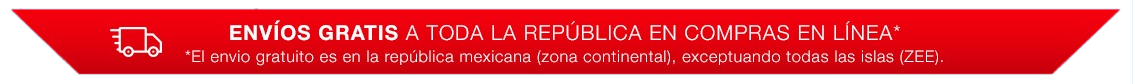
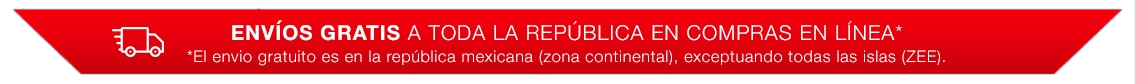
Increased width

diff --git a/app/styles/main.css b/app/styles/main.css
@@ -1715,7 +1715,7 @@ select {
   background: #e2023f;
   transition: width 0.3s;
 }
-.smart-menu-left a::after {  
+.smart-menu-left a::after {
   content: '';
   display: block;
   width: 0;
@@ -1726,14 +1726,14 @@ select {
 .smart-menu a:hover::after {
   width: 15%;
 }
-.smart-menu-left a:hover::after { 
+.smart-menu-left a:hover::after {
   width: 15%;
 }
 .smart-menu img {
   width: 100%;
   display: block;
 }
-.smart-menu-left img {  
+.smart-menu-left img {
   width: 100%;
   display: block;
 }
@@ -5277,7 +5277,7 @@ md-backdrop.md-sidenav-backdrop {
 }
 
 /* propuesta card view:
-box-shadow: 0 1px 3px 0 rgba(0, 0, 0, 0.26); 
+box-shadow: 0 1px 3px 0 rgba(0, 0, 0, 0.26);
 */
 
 .cart-item {
@@ -5379,7 +5379,7 @@ box-shadow: 0 1px 3px 0 rgba(0, 0, 0, 0.26);
 }
 
 /* propuesta card view:
-box-shadow: 0 1px 3px 0 rgba(0, 0, 0, 0.26); 
+box-shadow: 0 1px 3px 0 rgba(0, 0, 0, 0.26);
 */
 
 .cart-view .cart-summary .secure-note {
@@ -8101,7 +8101,7 @@ button.accordion:hover {
 }
 
 .free-delivery-image {
-  width: 400px;
+  width: 850px;
   margin-top: -11px;
 }
 
